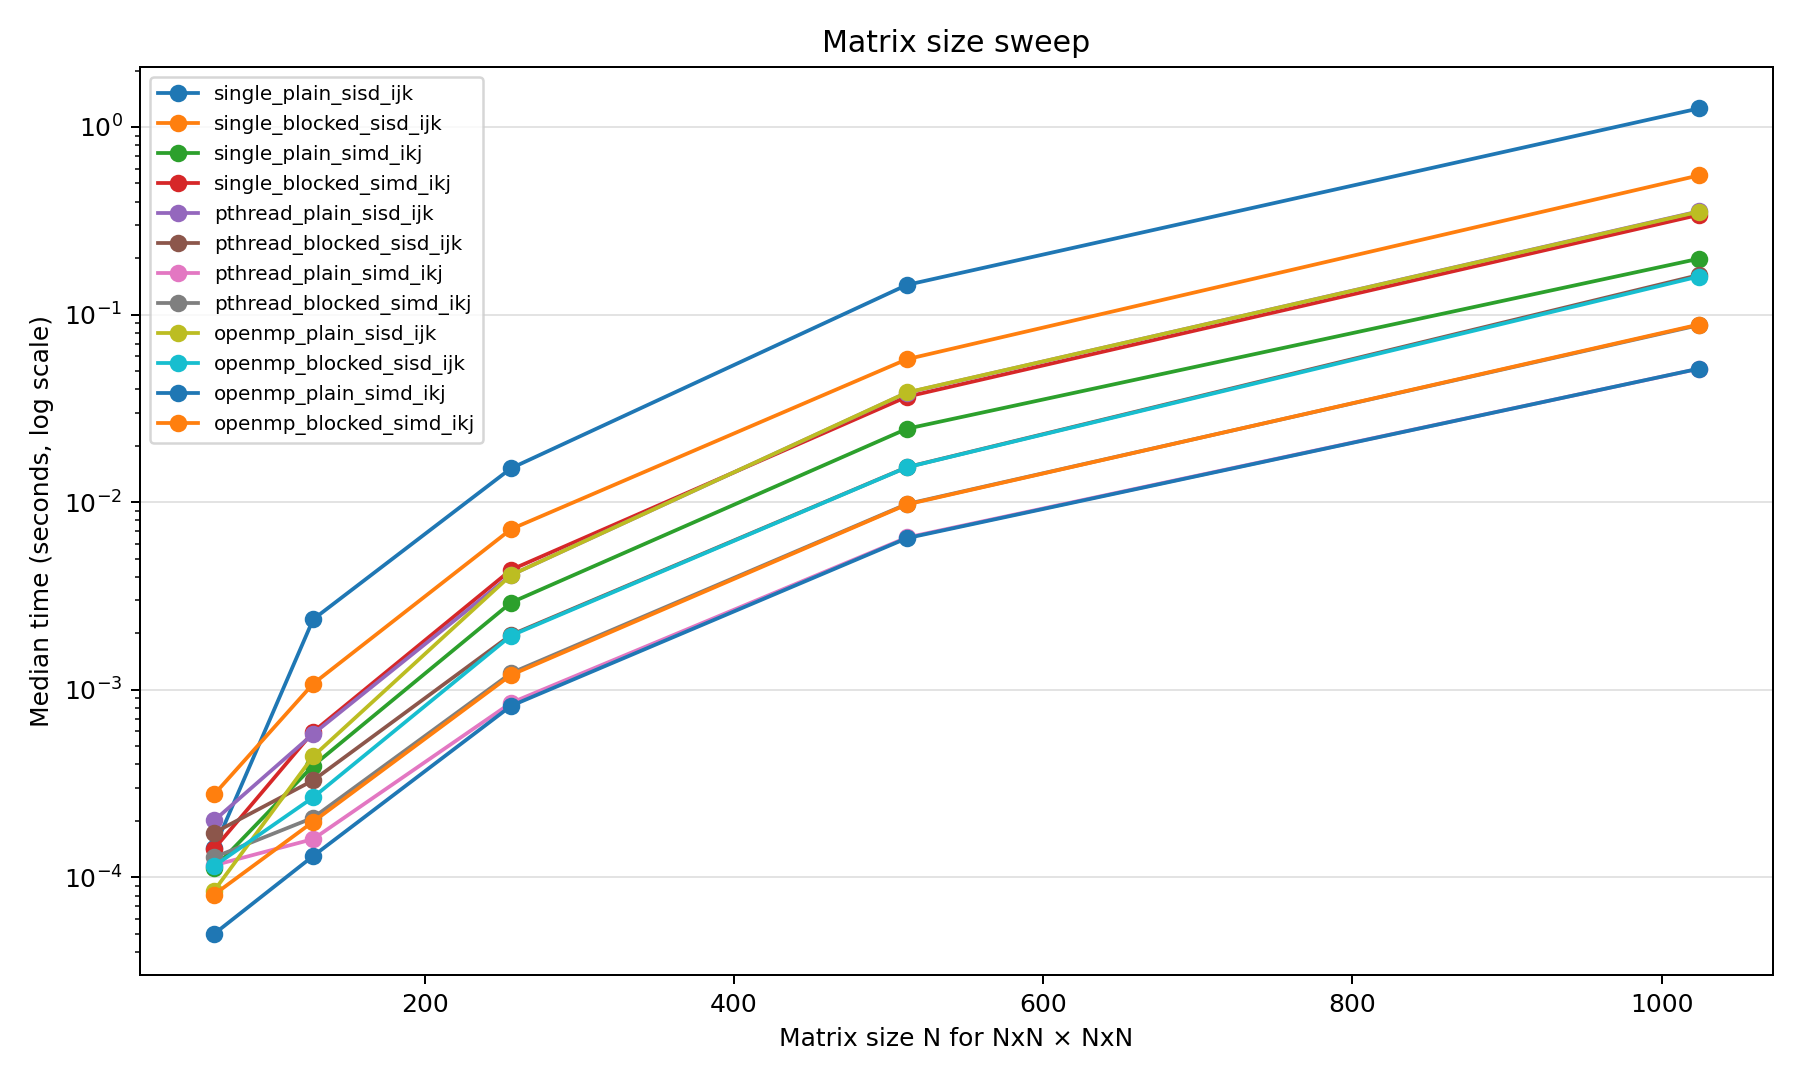
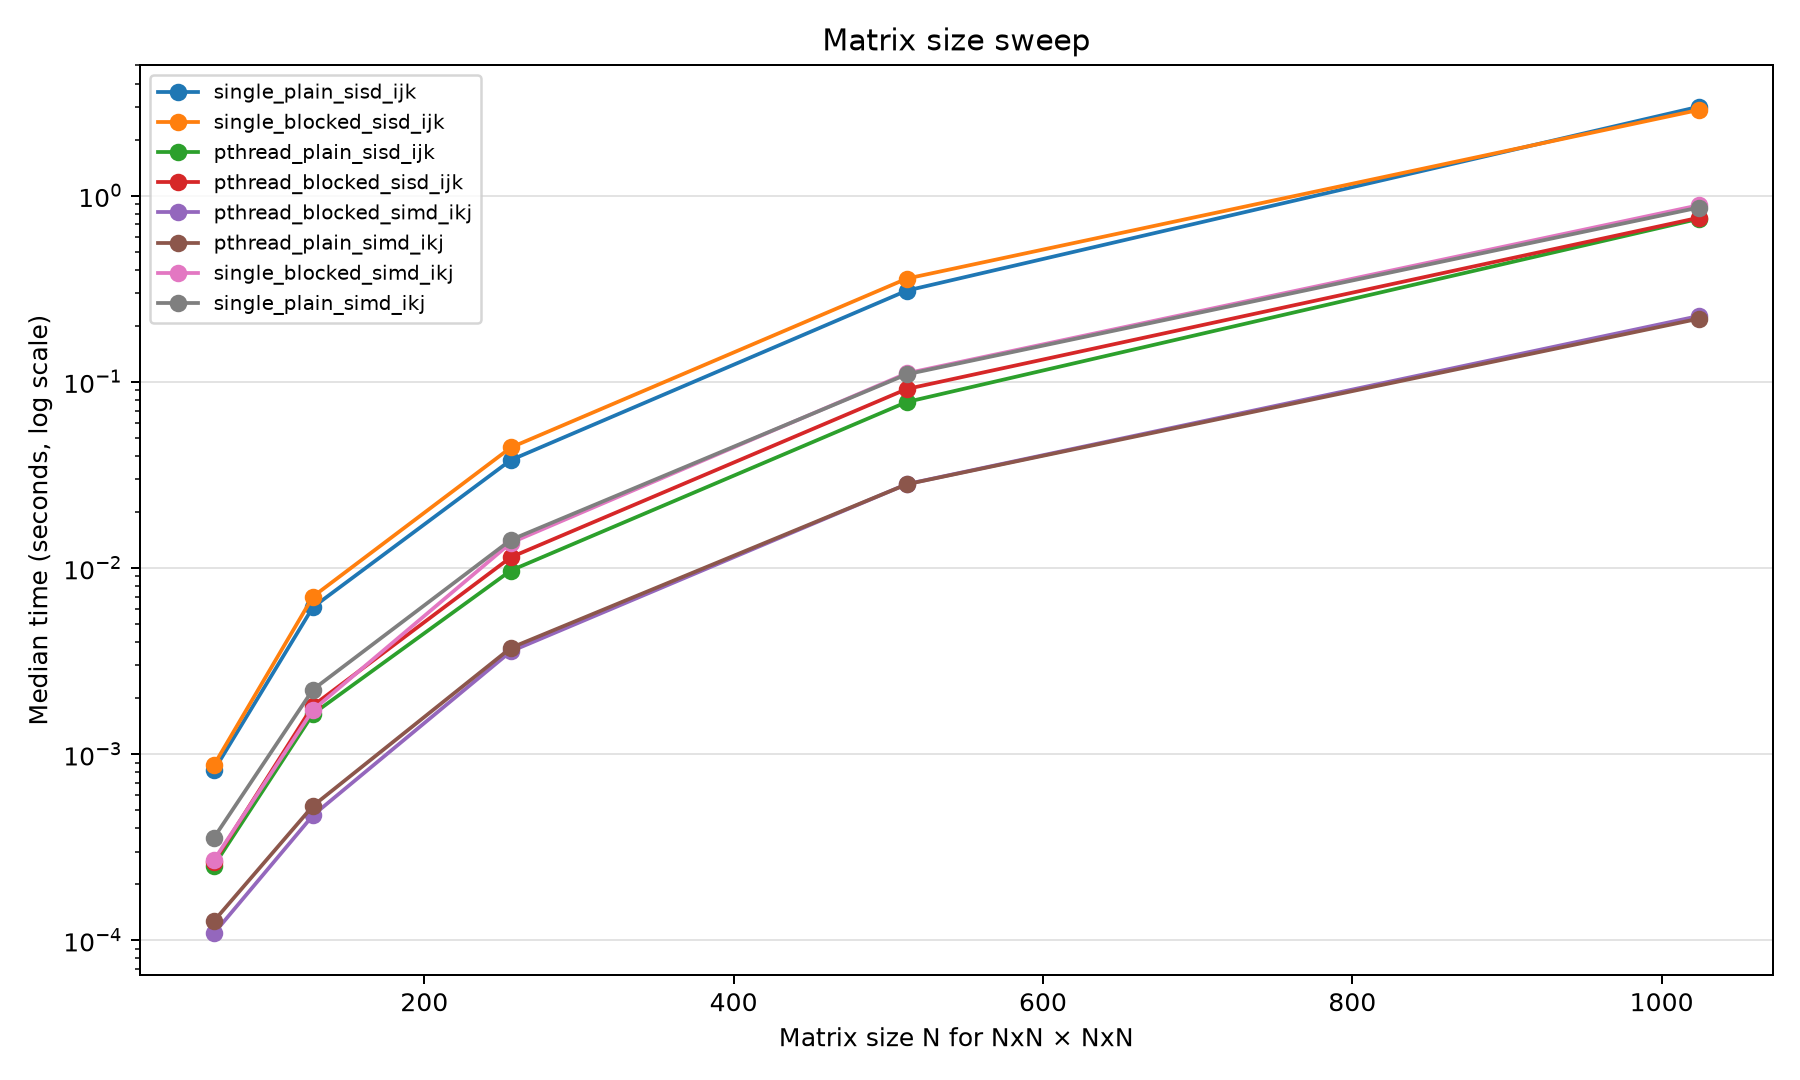
Update README and benchmark plots

diff --git a/README.md b/README.md
@@ -74,14 +74,13 @@ int ok = matmul_into(&a, &b, &c, cfg);
 ```text
 include/              public headers
 src/matmul/           matmul dispatch and backends
-tests/                correctness tests
 benchmarks/           benchmark suite, CSV data, and plots
 scripts/              benchmark plotting
 ```
 
 ## Benchmarks
 
-`make bench` writes `benchmarks/data/benchmark_results.csv`and `benchmarks/plots/`. The following data is from a MacBook Pro 14" 2021 with base specs (Apple M1 Pro, 16GB RAM) running macOS Tahoe 26.5.1.
+The following data is from an AMD Ryzen 7 9800X3D with NVIDIA GeForce RTX 5070 Ti, running Arch Linux.
 
 <img src="benchmarks/plots/matrix_size_sweep.png" width="70%">
 
@@ -94,8 +93,3 @@ CSV columns:
 ```text
 sweep,rows,inner,cols,backend,loop_order,use_blocking,use_simd,num_threads,block_size,iterations,time_sec,speedup_vs_baseline,label
 ```
-
-## Roadmap
-
-- Add quick/full benchmark options.
-- Add CUDA experiments.
